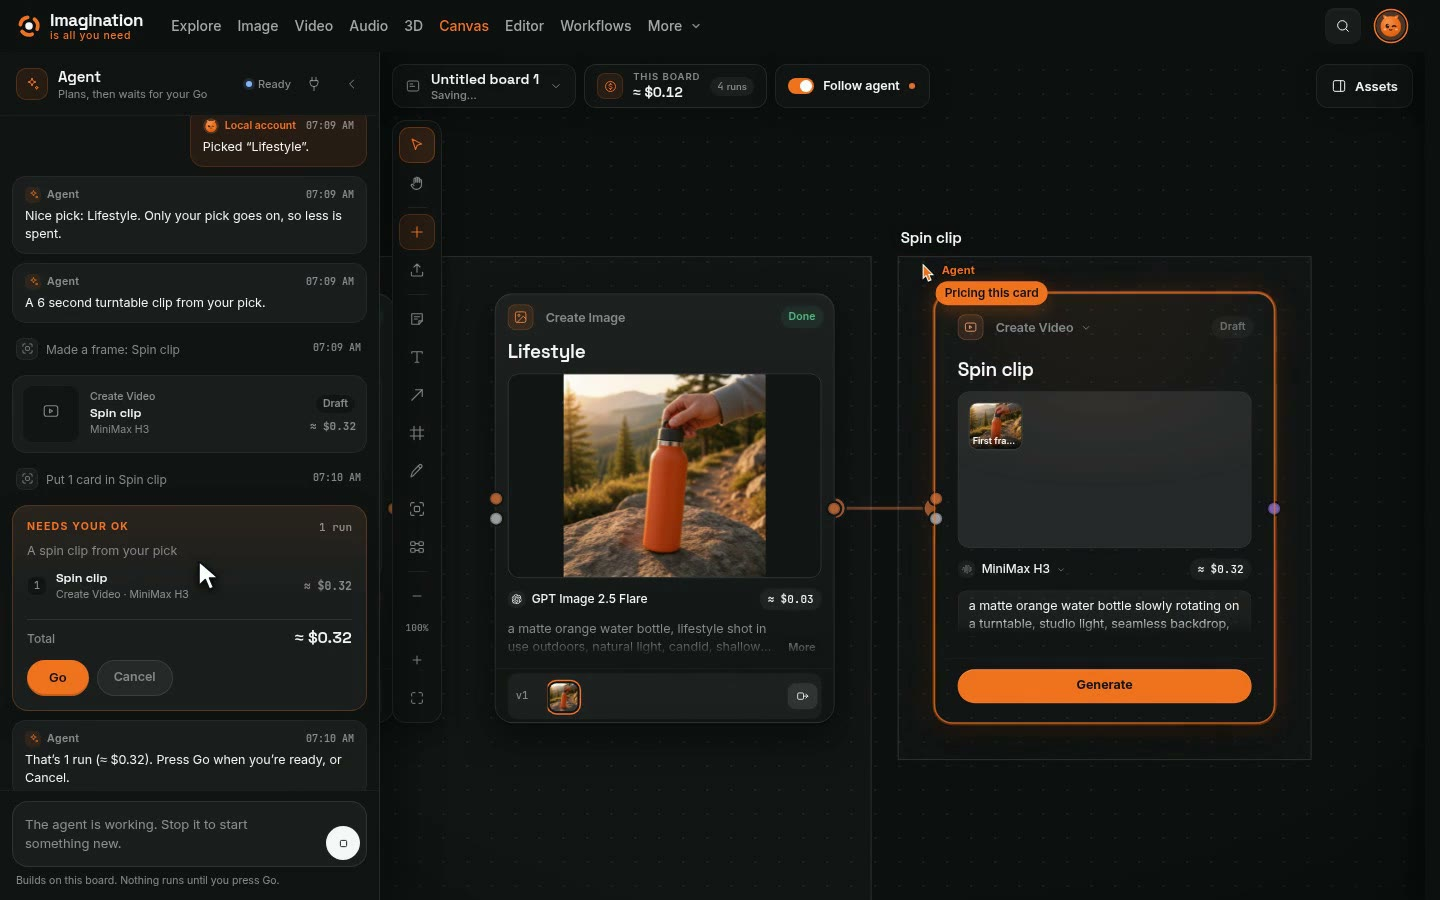
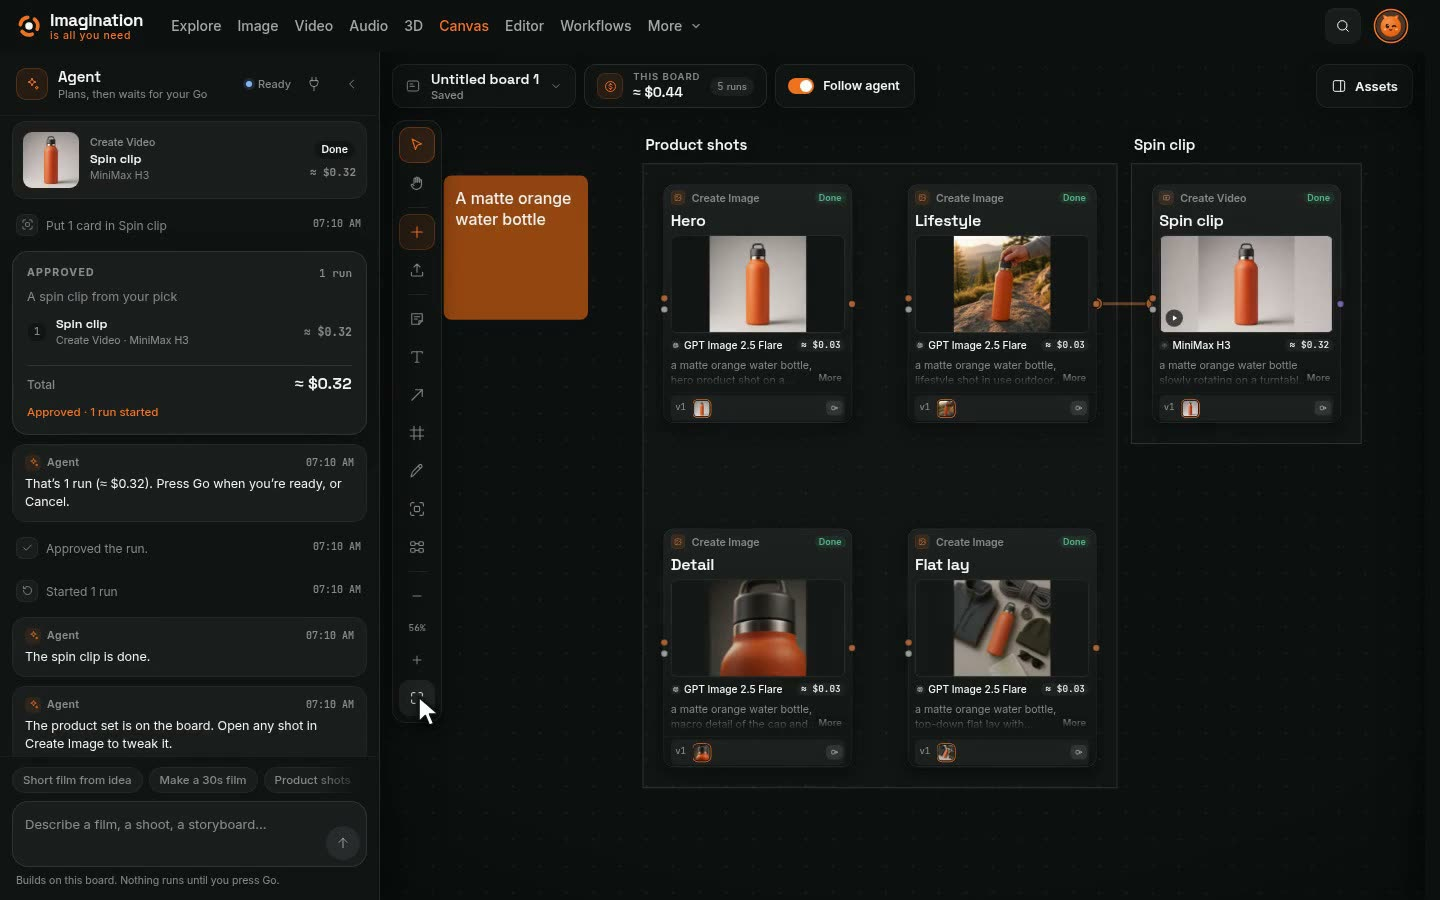
Explore: readable wall credit, and the Canvas poster shows a finished board
Now it's your turn: the credit line under the wall goes from 42% to 62% white with a
soft shadow, and the 3D city's kits (KayKit and Kenney) are named apart from the models.
Canvas: the poster is the recording's frame at 24 s (the board with its cards) instead
of an empty, saving board.

diff --git a/web/src/ui/explore/ExploreShowcase.tsx b/web/src/ui/explore/ExploreShowcase.tsx
@@ -482,7 +482,8 @@ export function XpYourTurn() {
   const Y = EXPLORE_YOUR_TURN; const root = useRef<HTMLElement>(null); const [on, setOn] = useState(false); const [text, setText] = useState('');
   useEffect(() => { const el = root.current; if (!el || typeof IntersectionObserver === 'undefined') return;
     const io = new IntersectionObserver(([e]) => setOn(e.isIntersecting)); io.observe(el); return () => io.disconnect(); }, []);
-  const models = [...new Set(Y.wall.flat().map((t) => t.model))];
+  /* the credit names the models, then the 3D city's kits apart from them (they are assets, not models) */
+  const all = [...new Set(Y.wall.flat().map((t) => t.model))]; const kits = all.filter((m) => /^3D city · /.test(m)).map((m) => m.replace(/^3D city · /, '')); const models = all.filter((m) => !/^3D city · /.test(m));
   return <section ref={root} className={`xyt${on ? ' on' : ''}`} id="xp-your-turn" data-testid="xp-your-turn" aria-labelledby="xp-h-your-turn">
     <div className="xyt-wall" aria-hidden><div className="xyt-tilt">{Y.wall.map((col, c) => <div key={c} className="xyt-col"><div className="xyt-track">
       {[...col, ...col].map((t, k) => <img key={k} src={t.src} alt="" loading="lazy" decoding="async" draggable={false} className={t.star ? 'is-star' : undefined} />)}</div></div>)}</div></div>
@@ -498,6 +499,6 @@ export function XpYourTurn() {
       <nav className="xyt-tabs" aria-label="Or start in">{Y.tabs.map((t) => <Link key={t.label} to={t.href} data-testid={`xp-your-turn-tab-${t.label.toLowerCase()}`}>{t.label}</Link>)}</nav>
       <small className="xyt-note">{Y.note}</small>
     </div>
-    <p className="xyt-credit" data-testid="xp-your-turn-credit">On the wall: {models.join(' · ')}</p>
+    <p className="xyt-credit" data-testid="xp-your-turn-credit">On the wall: {models.join(' · ')}{kits.length > 0 && <span> · 3D city kits by {kits.join(', ')}</span>}</p>
   </section>;
 }

diff --git a/web/src/ui/explore/exploreShowcase.css b/web/src/ui/explore/exploreShowcase.css
@@ -167,7 +167,8 @@ html body .xyt-box input,html body .xyt-box input:focus,html body .xyt-box input
   transition:border-color var(--t-state) var(--ease-state),background var(--t-state) var(--ease-state)}
 .xyt-tabs a:hover{border-color:var(--accent);background:rgba(255,122,26,.14)}
 .xyt-note{margin-top:22px;font:500 13px/1.4 var(--font-ui);color:rgba(255,255,255,.6)}
-.xyt-credit{position:absolute;left:0;right:0;bottom:18px;margin:0;padding:0 clamp(16px,2.2vw,32px);text-align:center;font:500 11.5px/1.5 var(--font-ui);color:rgba(255,255,255,.42)}
+.xyt-credit{position:absolute;left:0;right:0;bottom:18px;margin:0;padding:0 clamp(16px,2.2vw,32px);text-align:center;font:500 12px/1.5 var(--font-ui);color:rgba(255,255,255,.62);text-shadow:0 1px 8px rgba(0,0,0,.8)}
+.xyt-credit span{color:rgba(255,255,255,.48)}
 /* fewer columns on narrow screens; the tortoise's column (the fifth) always stays */
 @media (max-width:900px){.xyt-tilt{grid-template-columns:repeat(4,minmax(0,1fr));left:-24%;right:-24%}.xyt-col:nth-child(2),.xyt-col:nth-child(3){display:none}}
 @media (max-width:640px){.xyt{min-height:760px;padding-top:72px;padding-bottom:84px}.xyt-tilt{--g:12px;grid-template-columns:repeat(3,minmax(0,1fr));left:-30%;right:-30%}.xyt-col:nth-child(6){display:none}

diff --git a/server/src/shared/exploreShowcase.ts b/server/src/shared/exploreShowcase.ts
@@ -356,7 +356,7 @@ export const EXPLORE_LAYERS = {
 export const EXPLORE_BOARD = {
   eyebrow: 'Canvas', title: 'Your idea. Your agent. One canvas.', line: 'Describe what you want to make. Your agent builds the workflow—you review, choose and give the go-ahead.',
   /** User-selected Option A v3 replacement, 2026-10-30: product-shots Canvas workflow.
-   * The encoded 1440×900 picture is unchanged; only the soundtrack differs, so the poster stays.
+   * The encoded 1440×900 picture is unchanged; only the soundtrack differs. The poster is its frame at 24 s (the finished board, 2026-11-02).
    * Supplied media is copied without retiming or re-encoding. Voice-model provenance is not encoded in the file.
    * Recorded model labels and prices describe the walkthrough, not new runs started by playback. */
   recording: {
